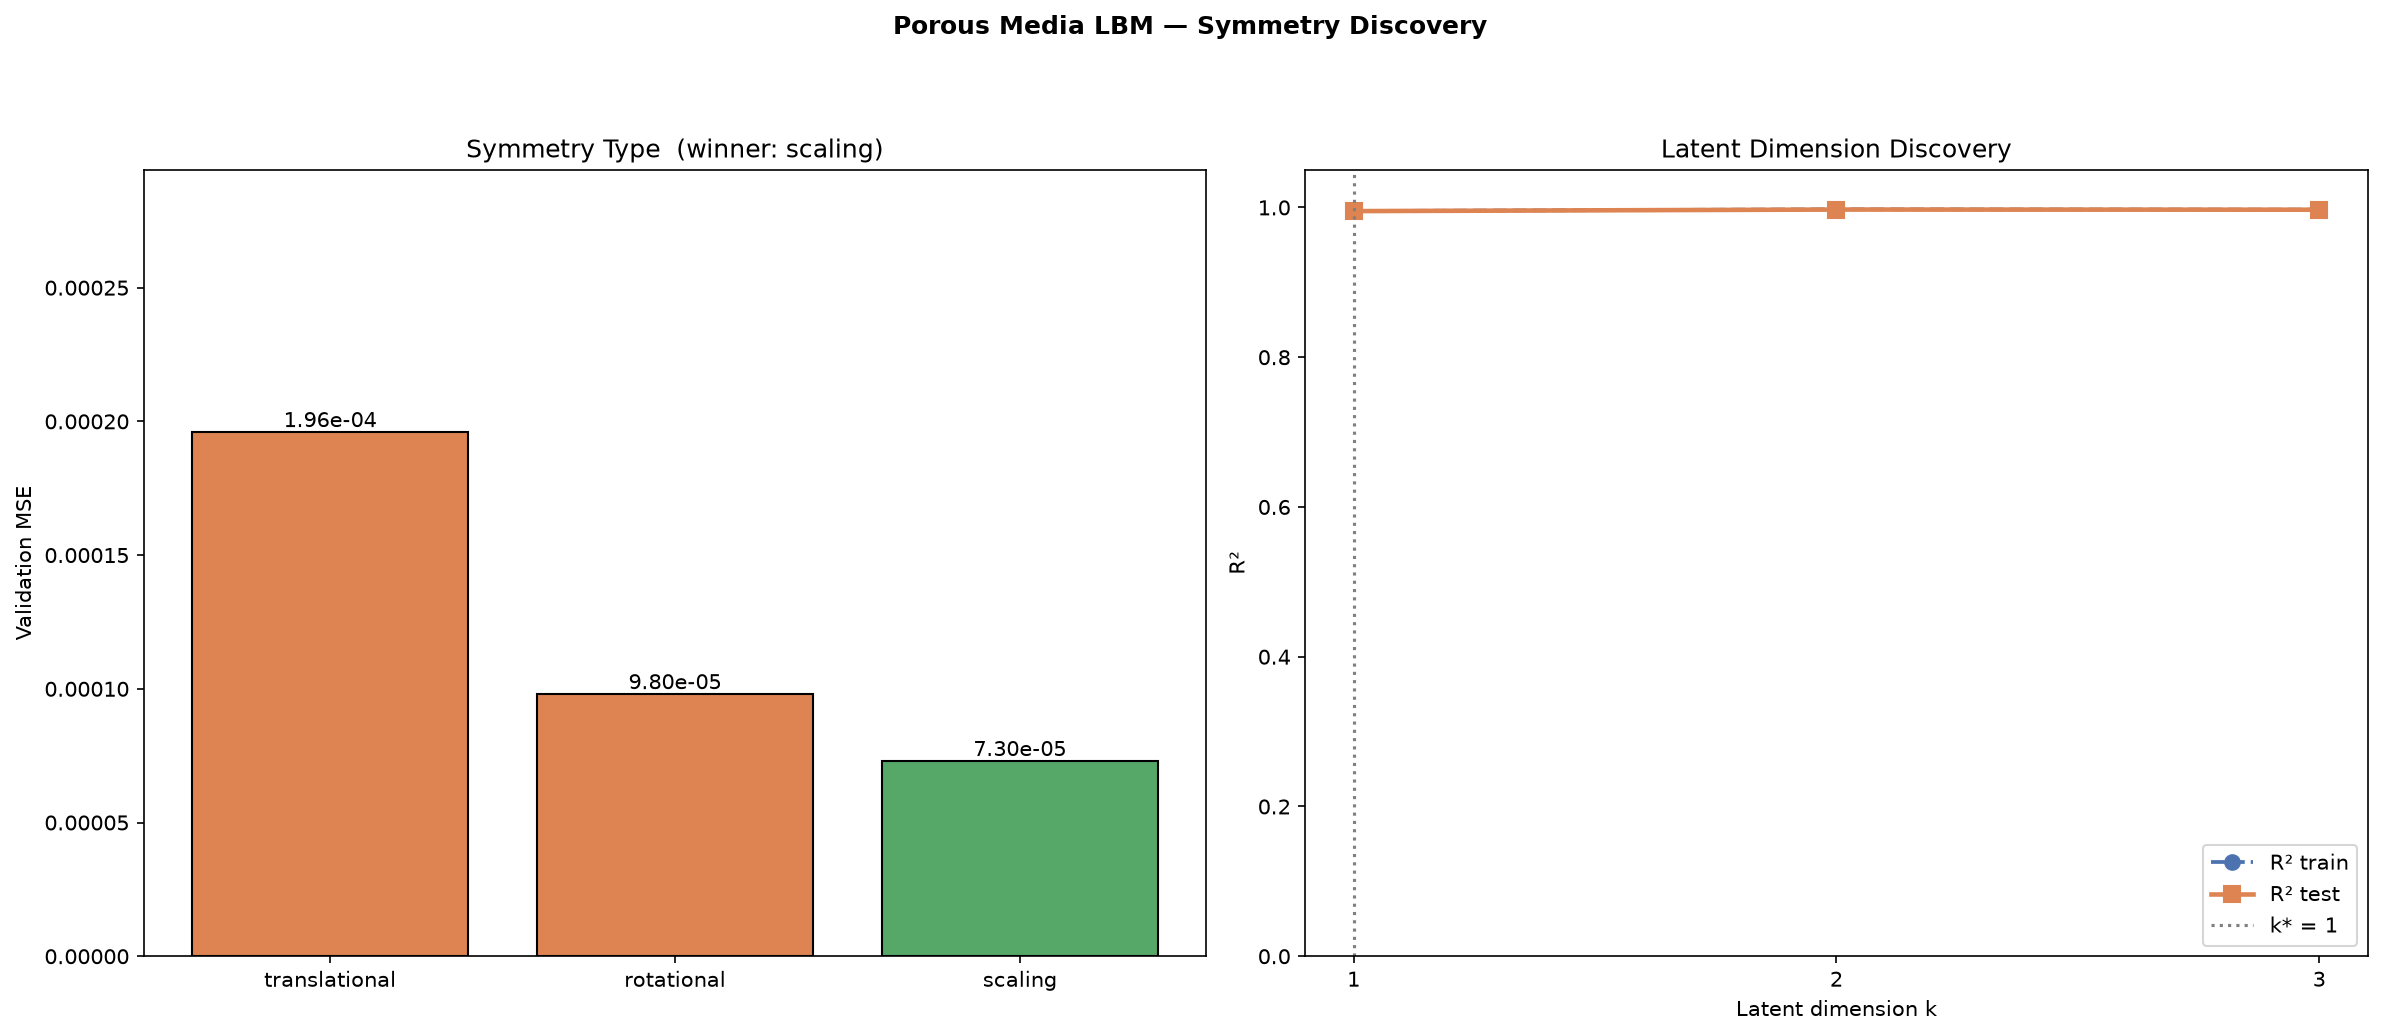
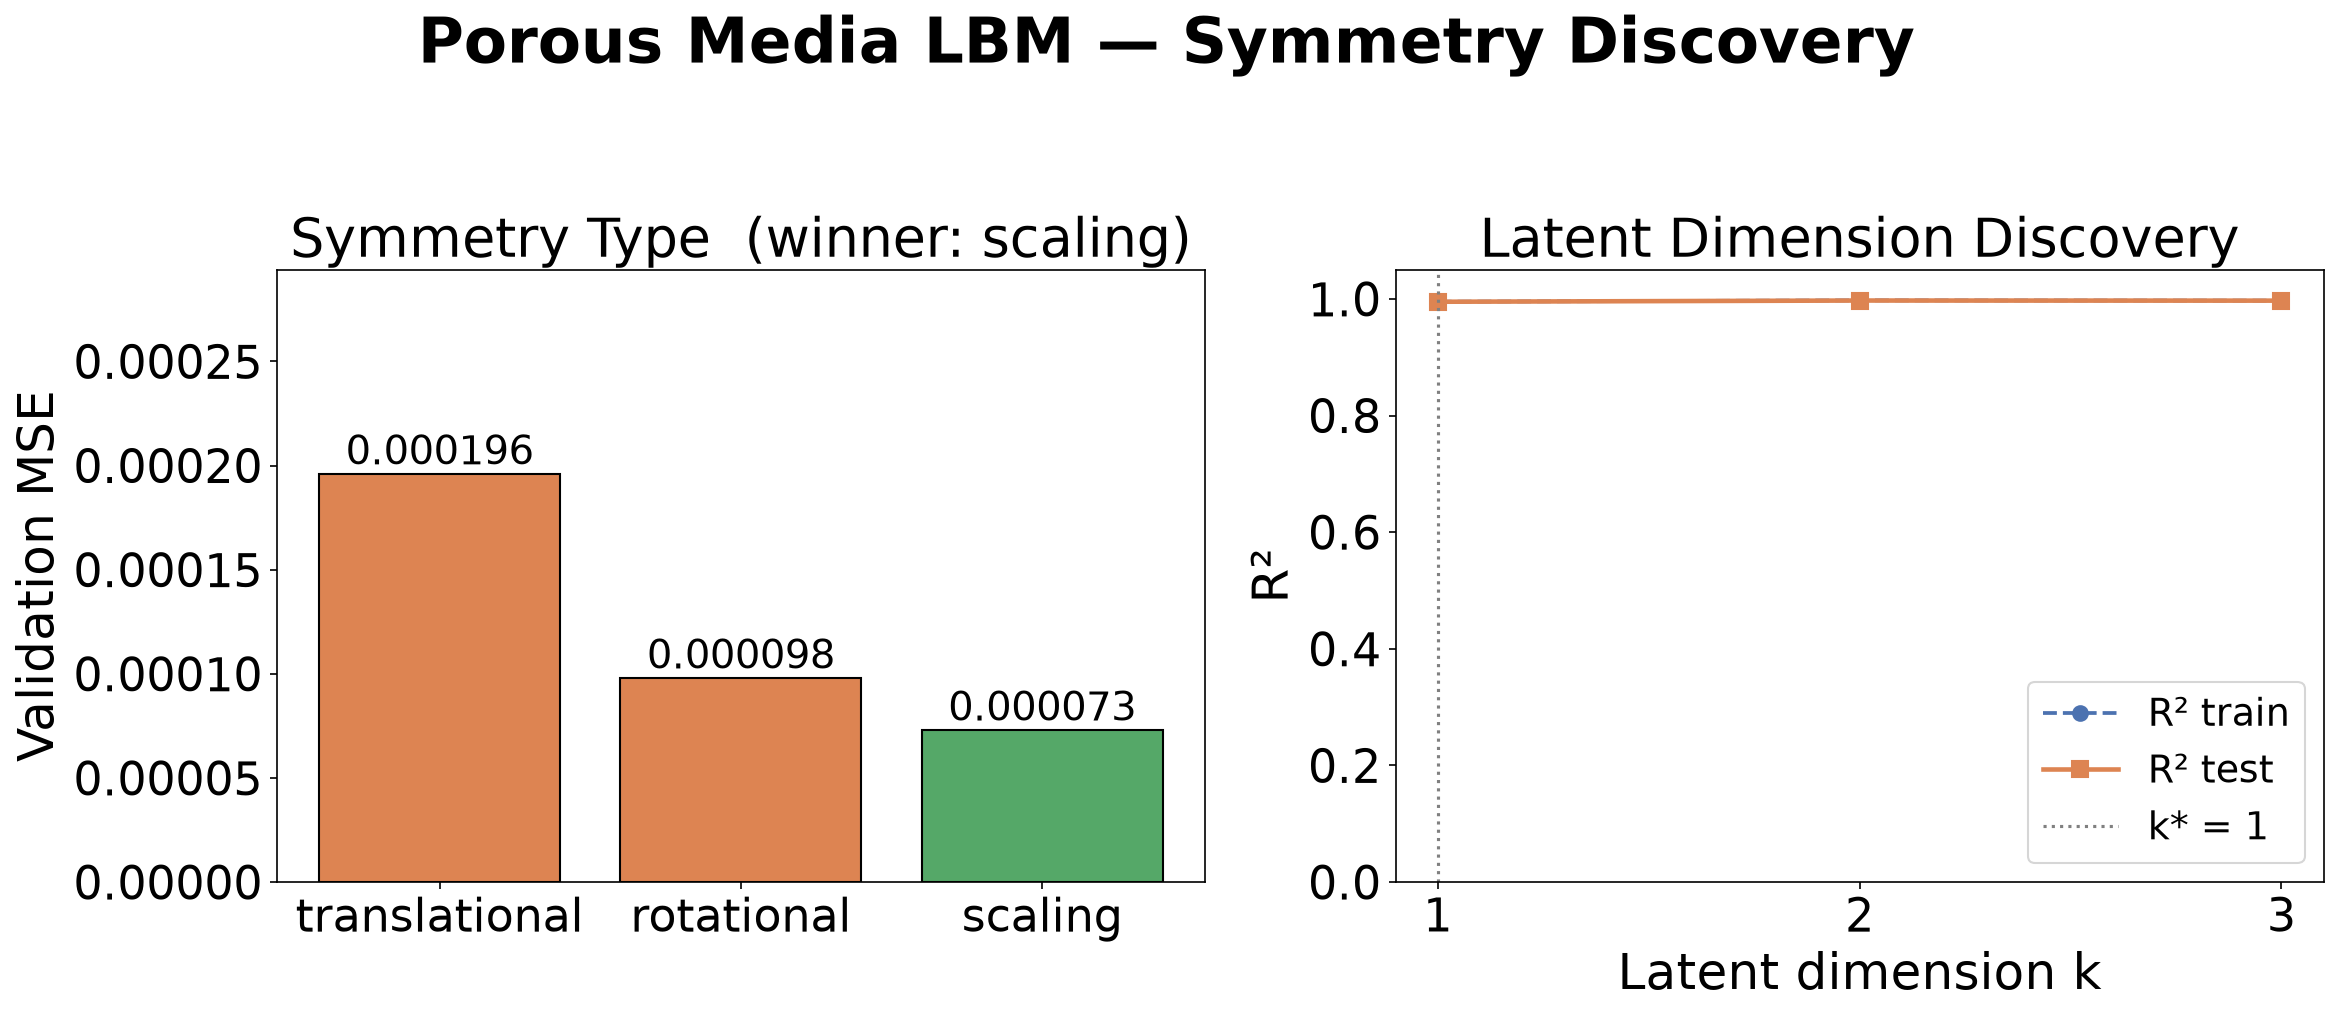
Symmetry bar labels: 6-decimal fixed instead of 2-sig-fig scientific
Changes plot_results in discover_symmetry.py so bar labels print as
"0.000073" instead of "7.30e-05" and regenerates the two wide-phi
synthetic PNGs.

diff --git a/projects/20260912_Stage1_Prokash/Examples/porous_media_lbm_symmetry/discover_symmetry.py b/projects/20260912_Stage1_Prokash/Examples/porous_media_lbm_symmetry/discover_symmetry.py
@@ -759,7 +759,7 @@ def plot_results(X, y, results, output_dir):
     # ~1.4x gap (7.3e-5 vs 9.8e-5) that reads "0.0001, 0.0001" at .4f.
     for bar, loss in zip(bars, losses):
         ax.text(bar.get_x() + bar.get_width() / 2, bar.get_height(),
-                f"{loss:.2e}", ha="center", va="bottom")
+                f"{loss:.6f}", ha="center", va="bottom")
 
     # Panel 2: latent-dim R² curve
     ax = axes[1]
